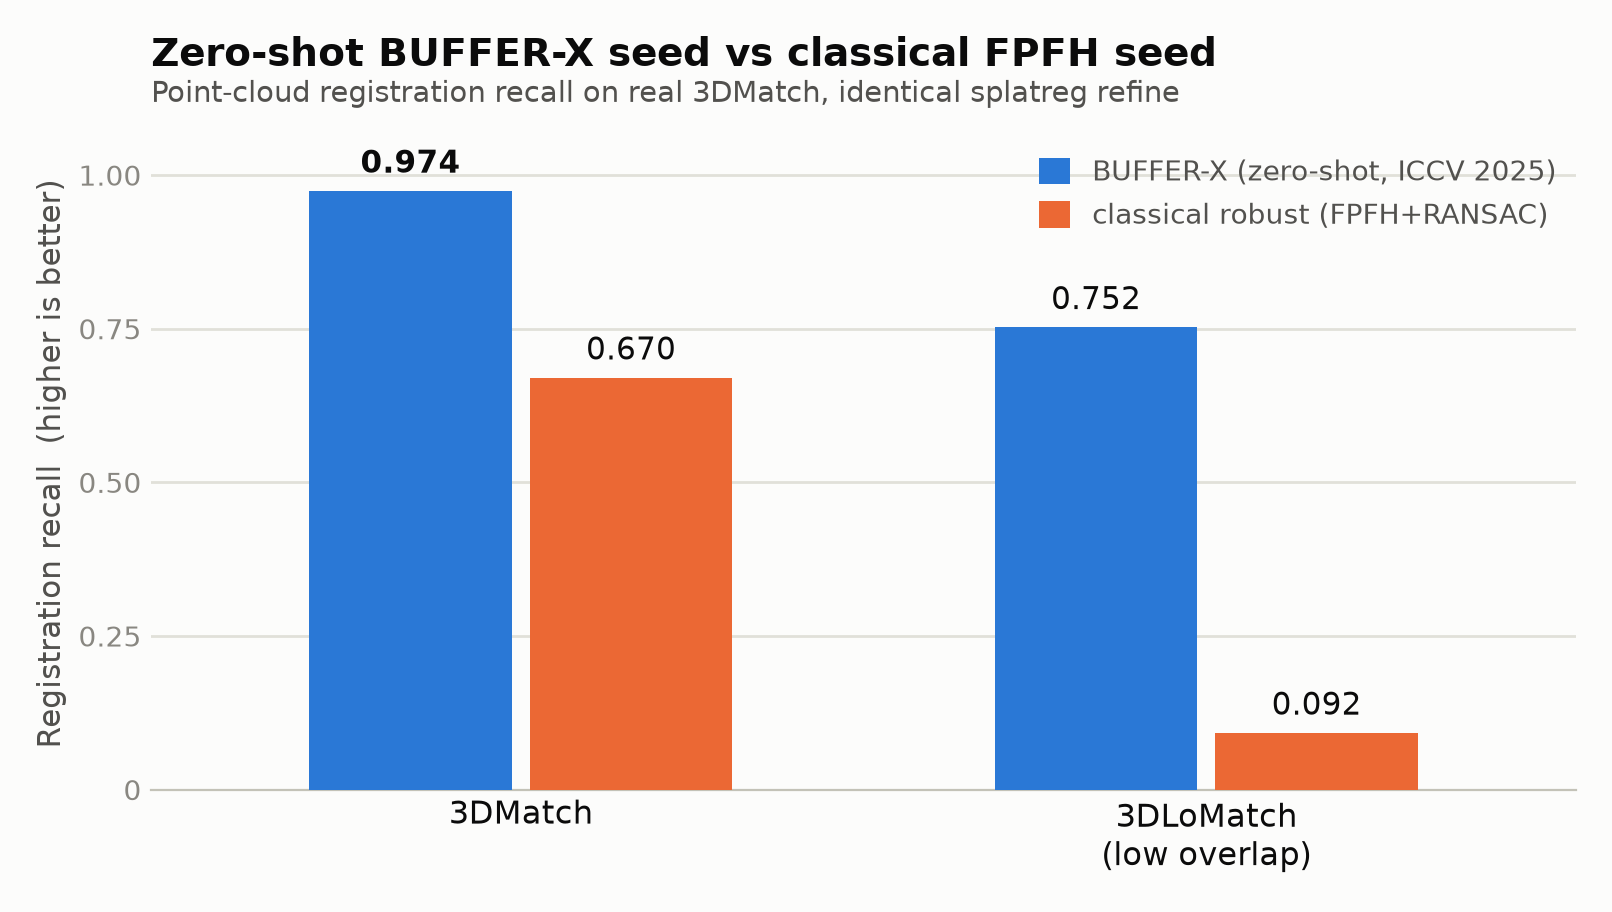
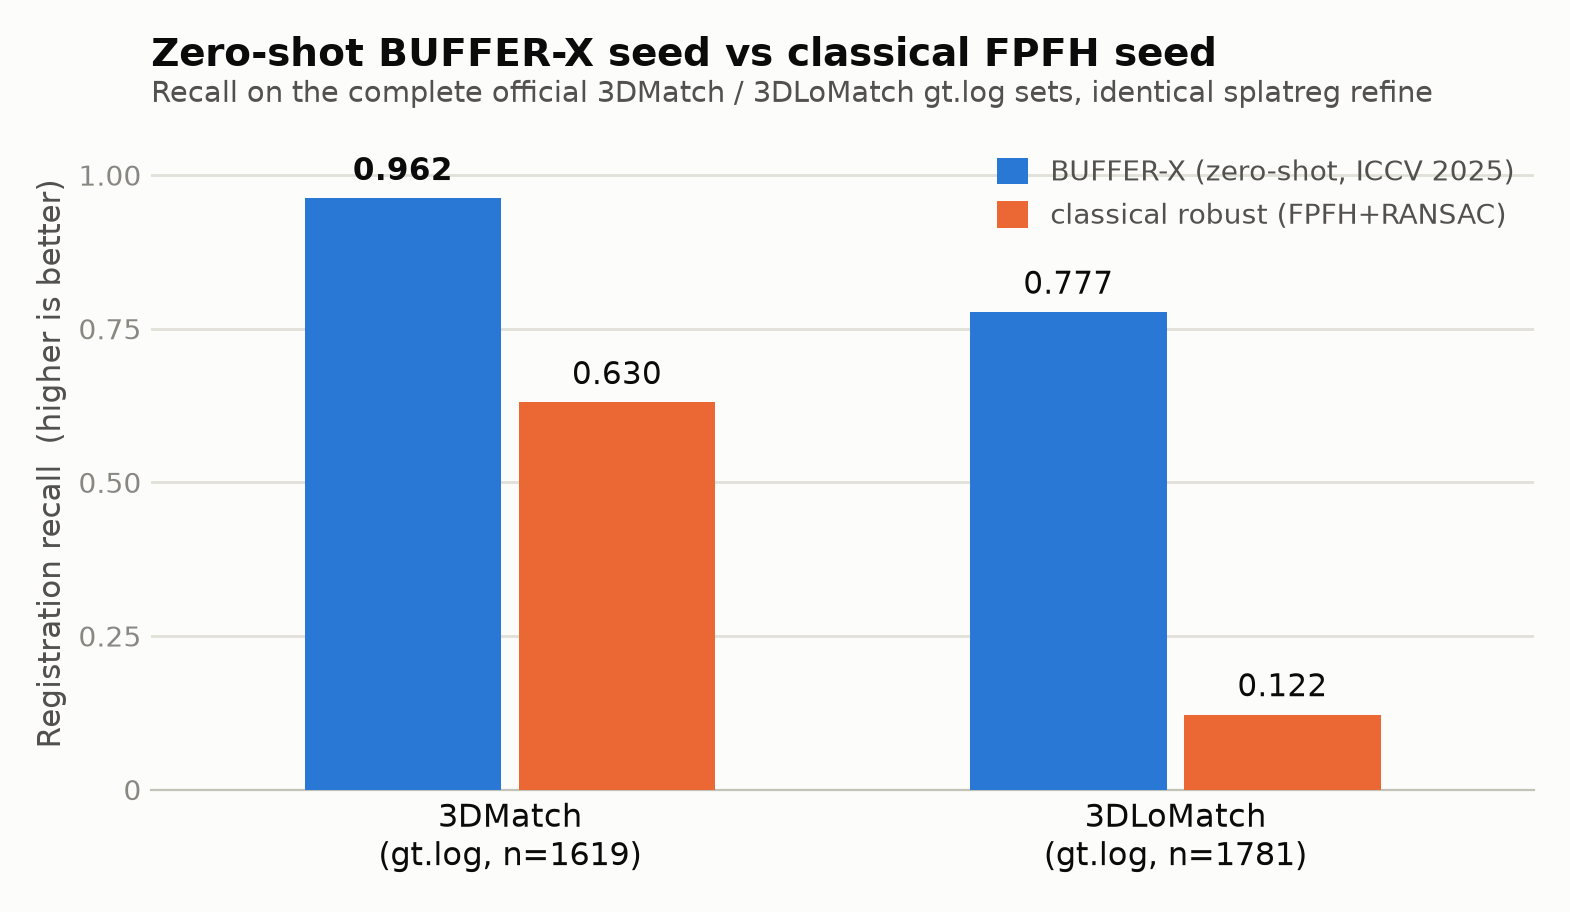
Rewrite README as a coherent product page; regenerate BUFFER-X figure and fix GIF timing
- README/docs restructured: dated bolt-on sections removed; init modes presented
  as product features and all benchmarks flow as one Results block (current
  product, not a changelog). Caveats kept as figure footnotes.
- bufferx_recall.png/.svg: replace stale interim bars with the final official
  gt.log numbers (3DMatch n=1619 0.962/0.630, 3DLoMatch n=1781 0.777/0.122).
- merge_fusion.gif + photometric_refine.gif: fix the imageio duration-units bug
  (per-frame ms cadence + end hold); sync merge counts to the regenerated run
  (38,059 -> 23,564 fused, 14,495 overlap dupes) across README and docs_site.
- docs_site: sync merge counts, de-date the init-modes positioning header.
- Fix the BUFFER-X setup doc link path.

diff --git a/examples/make_bufferx_figure.py b/examples/make_bufferx_figure.py
@@ -4,8 +4,8 @@ A grouped bar chart of registration recall for the zero-shot BUFFER-X seed again
 classical robust (Open3D FPFH+RANSAC) seed, both pushed through the *identical* splatreg
 refine so the comparison isolates the seed. Two regimes:
 
-  * 3DMatch     -- official gt.log pair set (6/8 scenes, n=1250): 0.974 vs 0.670
-  * 3DLoMatch   -- low-overlap regime (0.10-0.30 overlap, 50/scene run, n=400): 0.752 vs 0.092
+  * 3DMatch     -- complete official gt.log pair set (8/8 scenes, n=1619): 0.962 vs 0.630
+  * 3DLoMatch   -- complete official gt.log pair set (n=1781): 0.777 vs 0.122
 
 Writes ``assets/bufferx_recall.png`` (+ ``.svg``). CPU, deterministic, matplotlib only.
 Palette: dataviz categorical slots 1 (blue) and 8 (orange) -- a CVD-safe pair (ΔE ~96).
@@ -20,9 +20,9 @@ import matplotlib.pyplot as plt
 from matplotlib.patches import Patch
 
 # --- data --------------------------------------------------------------------
-GROUPS = ["3DMatch", "3DLoMatch\n(low overlap)"]
-BUFFERX = [0.974, 0.752]
-ROBUST = [0.670, 0.092]
+GROUPS = ["3DMatch\n(gt.log, n=1619)", "3DLoMatch\n(gt.log, n=1781)"]
+BUFFERX = [0.962, 0.777]
+ROBUST = [0.630, 0.122]
 
 # --- palette (dataviz light surface) -----------------------------------------
 SURFACE = "#fcfcfb"
@@ -102,7 +102,7 @@ def main() -> str:
     ax.text(
         0.0,
         1.045,
-        "Point-cloud registration recall on real 3DMatch, identical splatreg refine",
+        "Recall on the complete official 3DMatch / 3DLoMatch gt.log sets, identical splatreg refine",
         transform=ax.transAxes,
         fontsize=10.5,
         color=INK_2,

diff --git a/examples/make_merge_fusion_gif.py b/examples/make_merge_fusion_gif.py
@@ -275,9 +275,18 @@ def _render_gif(stats, A_np, Bm_np, Br_np, m_np, from_A, out_path):
             fnum += 1
 
     frames += [frames[-1]] * 5
-    imageio.mimsave(out_path, frames, format="GIF", duration=0.11, loop=0, subrectangles=True)
+    # imageio >= 2.28 reads `duration` in MILLISECONDS; pass a per-frame list so the
+    # turntable runs at ~110 ms/frame and the final merged frame holds for ~1.3 s.
+    per_frame_ms = [110] * (len(frames) - 1) + [1300]
+    imageio.mimsave(out_path, frames, format="GIF", duration=per_frame_ms, loop=0,
+                    subrectangles=True)
     sz = os.path.getsize(out_path) / 1e6
     print(f"wrote {out_path}  ({sz:.2f} MB, {len(frames)} frames)")
+    print(f"  STAGE-3 counts: {stats['n_cat']:,} concat -> {stats['n_merged']:,} fused "
+          f"({stats['n_dedup_removed']:,} dupes dropped)")
+    print(f"  seam {stats['seam_naive_mm']:.0f}->{stats['seam_reg_mm']:.0f} mm | "
+          f"overlap {stats['overlap_naive']:.2f}->{stats['overlap_reg']:.2f} | "
+          f"RRE {stats['rre_deg']:.2f} deg RTE {stats['rte_mm']:.0f} mm")
 
 
 if __name__ == "__main__":

diff --git a/examples/make_photometric_refine_gif.py b/examples/make_photometric_refine_gif.py
@@ -222,7 +222,9 @@ def _render_gif(target_img, src_imgs, errs):
     # hold start and end
     frames = [frames[0]] * 3 + frames + [frames[-1]] * 6
     out = os.path.join(_REPO_ROOT, "assets", "photometric_refine.gif")
-    imageio.mimsave(out, frames, format="GIF", duration=0.16, loop=0, subrectangles=True)
+    # imageio >= 2.28 reads `duration` in MILLISECONDS: ~160 ms/frame, ~1.3 s end hold.
+    per_frame_ms = [160] * (len(frames) - 1) + [1300]
+    imageio.mimsave(out, frames, format="GIF", duration=per_frame_ms, loop=0, subrectangles=True)
     print(f"wrote {out}  ({os.path.getsize(out) / 1e6:.2f} MB, {len(frames)} frames)")
 
 

diff --git a/README.md b/README.md
@@ -43,9 +43,10 @@ What you get that no other splat registrar ships (each claim traced in
 - **Pose covariance** on every builtin-LM solve (`info["information"]` /
   `info["covariance"]`), so the result plugs straight into a pose graph with an honest
   weight, `None` when singular, never faked.
-- **MAC maximal-clique seed** (`init="mac"`, Zhang et al. CVPR 2023) for contaminated
-  correspondence sets, with the honest measured verdict: a wash on official
-  3DMatch/3DLoMatch, a decisive win in the structured-decoy regime (78° failure vs <0.2°).
+- **Zero-shot and outlier-robust seeds.** A pretrained **BUFFER-X** seed (`init="bufferx"`,
+  ICCV 2025) registers across sensors and scales with no per-dataset training; a **MAC**
+  maximal-clique seed (`init="mac"`, Zhang et al. CVPR 2023) handles contaminated
+  correspondence sets — each reported with its honest measured verdict below.
 - **Sim(3) scale recovery**, which none of the competing splat tools attempt at all.
 
 <div align="center">
@@ -90,7 +91,7 @@ save_ply(fused, "fused.ply")                            # opens in SuperSplat / 
 <sub>*That 3-line merge on **two real overlapping 3DMatch scans** (`7-scenes-redkitchen`,
 ~19k points each): **register** (SE(3), recovered to **0.58° / 17 mm** against the 3DMatch ground
 truth — the seam gap closes 101 → 18 mm, overlap 0.27 → 0.82), then **fuse + voxel-dedupe** the
-double-covered seam (**38,059 → 23,502** Gaussians, 14,557 overlap duplicates dropped). Every number
+double-covered seam (**38,059 → 23,564** Gaussians, 14,495 overlap duplicates dropped). Every number
 is measured on this run; regenerate: [`examples/make_merge_fusion_gif.py`](examples/make_merge_fusion_gif.py).*</sub>
 
 Align without merging (both scans stay separate files, registered into one frame):
@@ -144,107 +145,10 @@ not registration).
 | SH (`f_rest`) rotated with the splat | **yes, test-locked** | no | no | not in any splat registrar we know of |
 | Merge + overlap dedupe | yes | no | no dedupe | concat only |
 | Photometric refine (exposure comp + ladder) | yes | no | no | no |
+| Zero-shot learned seed (BUFFER-X) | yes | no | no | no |
 | Pose covariance for pose graphs | yes | no | no | n/a |
 | Honest ambiguity flag (never silent-wrong) | yes | no | no | n/a |
 | Pure PyTorch library + CLI | yes | script | GUI | editor / CLI |
-
-## Results
-
-Every number is measured and reproducible; the provenance column points at the full record.
-
-| Benchmark | splatreg | reference | provenance |
-|---|---|---|---|
-| Real-splat merge (103k Gaussians) | Chamfer **10.3 → 2.0 mm (5.1×)**, overlap 0.03 → 0.67 (22×) | naive concat | [`RESULTS.md` §5d](RESULTS.md), `examples/merge_demo.py` |
-| Photometric refine (real rasterizer) | 5°/7 mm → **0.36°/0.5 mm** (~1.1 s) | geometric stage alone worsens the symmetric case 6.0°→11.2° | [`benchmarks/photometric_refine_results.md`](benchmarks/photometric_refine_results.md) |
-| Official 3DMatch recall (1279 pairs, Choi/Zeng protocol) | **91.5%** mean, 93.5% pooled | GeoTransformer ~92%, Open3D ~77% | [`RESULTS.md` §5b](RESULTS.md) |
-| Official 3DLoMatch (hard, 10-30% overlap) | 72.5% mean, **74.4%** pooled | GeoTransformer ~74%, Open3D ~20% | [`RESULTS.md` §5b](RESULTS.md) |
-| vs splat competitors (real splat, known GT Sim3) | **5.2°** (SE3), recovers scale (Sim3) | splatalign 15.3°, GS-Registration 36.3° | [`RESULTS.md` §5c](RESULTS.md) |
-| Object pose (canonical YCB CAD, 14 models × 4 poses) | ADD-S AUC **0.995**, 100% < 2 cm | n/a | [`RESULTS.md` §5f-ycb](RESULTS.md) |
-| Camera localization (real splat, known perturbation) | median 5°/10 mm → **0.11°/1.35 mm** | n/a | [`RESULTS.md` §5g](RESULTS.md) |
-| Known-transform recovery | **36/36 = 100%** (GPU full grid); 6/6 CPU smoke in 41 s | n/a | [`RESULTS.md` §1, §5j](RESULTS.md) |
-| Registration speed | **~17 ms** (fast init), 104 ms (learned) | GeoTransformer ~50 ms, Open3D 142 ms | [`RESULTS.md` §5e](RESULTS.md) |
-| SH rotation correctness | rotated-coeff evaluation error **~2.4e-15** (float64) | n/a | [`tests/test_sh_rotation.py`](tests/test_sh_rotation.py), [`RESULTS.md` §5j](RESULTS.md) |
-| Exposure compensation | tinted-pair scale error 3.99% → **0.47%** (clean: 0.01%, harmless) | no-compensation baseline | [`RESULTS.md` §5j](RESULTS.md) |
-| Pose covariance | SPD when well-constrained, scales with noise, `None` when singular | n/a | [`tests/test_pose_covariance.py`](tests/test_pose_covariance.py) |
-
-### Init modes: trade speed for robustness
-
-| `init=` | what | when |
-|---|---|---|
-| `"fast"` *(default)* | FPFH + GPU-batched RANSAC seed → closed-form LM | objects / full-overlap, **~17 ms** |
-| `"robust"` | Open3D FPFH+RANSAC seed → splatreg refine + scale | real metre-scale scans |
-| `"learned"` | pretrained GeoTransformer seed → splatreg refine + scale | best accuracy on real scans |
-| `"bufferx"` | pretrained **BUFFER-X** zero-shot seed (ICCV 2025) → splatreg refine + scale | cross-sensor / cross-scale scans with **no per-dataset training** |
-| `"mac"` | MAC maximal-clique consensus (Zhang et al. CVPR 2023) → weighted SVD → refine | outlier-heavy / multi-consensus correspondence sets |
-| `"global"` | blind super-Fibonacci SO(3) sweep | robust fallback, any rotation |
-
-Two options refine the *seed* rather than the pose: `init="learned"` accepts `seed_gate=True`
-(off by default), a Decision-PCR-style confidence check (arXiv 2507.14965) that scores the learned
-seed (mutual-NN inlier ratio + SC² spatial consistency) and reseeds a low-confidence hypothesis from
-the classical `"robust"` path *before* LM refinement, instead of blindly refining a bad seed. And
-`init="bufferx"` swaps GeoTransformer for **BUFFER-X** ("Towards Zero-Shot Point Cloud Registration
-in Diverse Scenes", ICCV 2025) — a single generalist model that registers across sensors and scales
-with no per-dataset training. Both learned backends are optional and lazily loaded; when their
-weights / CUDA extensions are absent they fall back to `"robust"` with a logged note (BUFFER-X setup:
-[`splatreg/third_party_models/README-BUFFERX.md`](splatreg/third_party_models/README-BUFFERX.md)).
-
-**2026 positioning.** Per-dataset-trained backbones like **PSReg** and **DiffusionPCR** now top the
-3DMatch leaderboard (95%+ registration recall), above the ~91.5% GeoTransformer seed splatreg wraps.
-splatreg deliberately keeps a *zero-shot* learned option (BUFFER-X) rather than chasing that number:
-a splat registrar should not require training a per-scene/per-sensor model to align two captures, so
-the value is a generalist seed + splatreg's provable SH rotation, honest pose covariance, Sim(3)
-scale, and overlap-aware refine on top — not the last recall point on one benchmark. Drop in a
-higher-recall correspondence model as the seed the day it ships a permissive, zero-shot checkpoint.
-
-**The BUFFER-X seed, built and validated.** The zero-shot seed is built and run on **real
-3DMatch**, with both seeds pushed through the *identical* splatreg refine so the comparison
-isolates the seed rather than the pipeline. On the **complete official `gt.log` pair sets**
-(a pair counts as recalled at RRE < 15° and RTE < 0.3 m): **3DMatch (8/8 scenes, n=1619)** the
-BUFFER-X seed reaches **0.962 recall** (median RRE 1.46°) against **0.630** (2.12°) for the
-classical robust FPFH seed; **official 3DLoMatch (n=1781)** it holds **0.777** (2.77°) against
-**0.122** (103.4°) — **6.4× the recall** where the classical seed's median error is effectively
-random. BUFFER-X wins every scene on both splits.
-
-<div align="center">
-<img src="https://raw.githubusercontent.com/Archerkattri/splatreg/main/assets/bufferx_recall.png" alt="BUFFER-X zero-shot seed vs classical FPFH seed: registration recall on 3DMatch and the low-overlap 3DLoMatch regime" width="82%">
-</div>
-
-<sub>*Final numbers are the complete official `gt.log` pair sets — 3DMatch 8/8 scenes (n=1619):
-0.962 vs 0.630; official 3DLoMatch (n=1781): 0.777 vs 0.122. Both seeds share the identical
-lighter `feature_align` refine, so these isolate the seed rather than report full-pipeline
-absolute numbers.*</sub>
-
-**Registration, happening.** One real low-overlap pair, watched end to end: the source fragment
-starts unaligned, the classical FPFH+RANSAC seed slews it into the *wrong* basin (151.5° off), then
-the BUFFER-X seed + splatreg refine rotates it onto the target and locks on at 2.0°.
-
-<div align="center">
-<img src="https://raw.githubusercontent.com/Archerkattri/splatreg/main/assets/registration_lowoverlap.gif" alt="Three-phase animation of a real low-overlap 3DMatch pair: unaligned, wrong classical FPFH+RANSAC basin (RRE 151.5°), then BUFFER-X seed + splatreg refine locking onto the target (RRE 2.0°)" width="62%">
-</div>
-
-<sub>*Real 3DMatch pair `7-scenes-redkitchen` 35→46, GT overlap **0.10**. Both transforms are the
-actual `robust_feature_align` (classical, RRE **151.5°** ✗) and `bufferx_feature_align` (BUFFER-X,
-RRE **2.0°** ✓) library outputs — the animation interpolates between the real estimates, nothing is
-hand-posed. At 10 % overlap the source only shares a corner with the target, so a correct lock
-overlaps just that corner. Regenerate: [`examples/make_lowoverlap_gif.py`](examples/make_lowoverlap_gif.py).*</sub>
-
-Weights come from Hugging Face `Hyungtae-Lim/BUFFER-X`; a native build on a modern stack
-(CUDA 12.8 / sm_120 / torch 2.11 / numpy 2.x) is nontrivial, with the full sudo-free recipe in
-[`docs/BUFFERX_BUILD_MODERN_CUDA.md`](docs/BUFFERX_BUILD_MODERN_CUDA.md). Note the checkpoints are
-full-model state_dicts: loading them into the `.Desc`/`.Pose` submodules silently loads nothing
-(random weights → garbage seeds), fixed in `c54d8c9`.
-
-**The MAC verdict, stated honestly.** `init="mac"` reimplements the MAC hypothesis generator
-(SC²-weighted rigidity graph → maximal cliques → weighted SVD per clique, with explicit
-caps) in pure torch + networkx (`pip install "splatreg[mac]"`). On synthetic contaminated
-sets ([`tests/test_mac.py`](tests/test_mac.py)) it matches the RANSAC engine at 30/60/90%
-random outliers and decisively wins the structured-decoy regime (RANSAC fails at ~78°, MAC
-stays <0.2°). Measured on the **full official splits** (same forward/voxel/refine, only the
-hypothesis stage differs) it is **a wash, not a lift**: 3DLoMatch 72.1/74.6 vs LGR's
-72.5/74.4, 3DMatch 91.7/93.8 vs 91.5/93.5, every delta within ±4 pairs, at ~+50% runtime.
-GeoTransformer's native-voxel correspondences are already consensus-dominated, so the
-default stays `seed_selector="lgr"`; `"mac"` is the tool for genuinely contaminated
-correspondence sets ([`RESULTS.md` §5k](RESULTS.md)).
 
 ## How it works
 
@@ -259,8 +163,8 @@ punts to a manual gizmo).
 </div>
 
 1. **Global init**: a coarse pose from a dense super-Fibonacci rotation sweep + batched
-   trimmed ICP (no local-minimum trap), with FPFH+RANSAC, learned (GeoTransformer), and MAC
-   maximal-clique seeds for harder real scans.
+   trimmed ICP (no local-minimum trap), with FPFH+RANSAC, learned (GeoTransformer), zero-shot
+   BUFFER-X, and MAC maximal-clique seeds for harder real scans.
 2. **Refinement**: a from-scratch Levenberg-Marquardt core over ICP (point-to-point /
    point-to-plane) *and* splatreg's flagship **Gaussian-SDF** residual, solving the full
    SE(3) or Sim(3) tangent, with the pose information/covariance exposed at the optimum.
@@ -285,6 +189,125 @@ from splatreg.geometry.gaussian_sdf import gaussian_sdf, gaussian_sdf_grad
 sdf, normal = gaussian_sdf(target, query_points, sigma=0.02)       # signed distance + normal
 sdf, grad   = gaussian_sdf_grad(target, query_points, sigma=0.02)  # + exact ∇_p d
 ```
+
+## Init modes: trade speed for robustness
+
+Every mode is a different way to seed the same LM core, so you pick one per capture and the
+refine, scale recovery, SH rotation, and covariance are identical downstream.
+
+| `init=` | what | when |
+|---|---|---|
+| `"fast"` *(default)* | FPFH + GPU-batched RANSAC seed → closed-form LM | objects / full-overlap, **~17 ms** |
+| `"robust"` | Open3D FPFH+RANSAC seed → splatreg refine + scale | real metre-scale scans |
+| `"learned"` | pretrained GeoTransformer seed → splatreg refine + scale | best accuracy on real scans |
+| `"bufferx"` | pretrained **BUFFER-X** zero-shot seed (ICCV 2025) → splatreg refine + scale | cross-sensor / cross-scale scans with **no per-dataset training** |
+| `"mac"` | MAC maximal-clique consensus (Zhang et al. CVPR 2023) → weighted SVD → refine | outlier-heavy / multi-consensus correspondence sets |
+| `"global"` | blind super-Fibonacci SO(3) sweep | robust fallback, any rotation |
+
+Two options refine the *seed* rather than the pose. `init="learned"` accepts `seed_gate=True`
+(off by default), a Decision-PCR-style confidence check (arXiv 2507.14965) that scores the learned
+seed (mutual-NN inlier ratio + SC² spatial consistency) and reseeds a low-confidence hypothesis from
+the classical `"robust"` path *before* LM refinement, instead of blindly refining a bad seed. And
+`init="bufferx"` swaps GeoTransformer for **BUFFER-X** ("Towards Zero-Shot Point Cloud Registration
+in Diverse Scenes", ICCV 2025) — a single generalist model that registers across sensors and scales
+with no per-dataset training. Both learned backends are optional and lazily loaded; when their
+weights / CUDA extensions are absent they fall back to `"robust"` with a logged note. BUFFER-X
+weights come from Hugging Face `Hyungtae-Lim/BUFFER-X`; a native build on a modern stack
+(CUDA 12.8 / sm_120 / torch 2.11 / numpy 2.x) is nontrivial, with the full sudo-free recipe in
+[`docs/BUFFERX_BUILD_MODERN_CUDA.md`](docs/BUFFERX_BUILD_MODERN_CUDA.md) and setup notes in
+[`third_party_models/README-BUFFERX.md`](third_party_models/README-BUFFERX.md).
+
+Per-dataset-trained backbones like **PSReg** and **DiffusionPCR** now top the 3DMatch leaderboard
+(95%+ registration recall), above the ~91.5% GeoTransformer seed splatreg wraps. splatreg
+deliberately keeps a *zero-shot* learned option (BUFFER-X) rather than chasing that number: a splat
+registrar should not require training a per-scene/per-sensor model to align two captures, so the
+value is a generalist seed plus splatreg's provable SH rotation, honest pose covariance, Sim(3)
+scale, and overlap-aware refine on top — not the last recall point on one benchmark. Drop in a
+higher-recall correspondence model as the seed the day it ships a permissive, zero-shot checkpoint.
+
+## Results
+
+Every number is measured and reproducible; the provenance column points at the full record.
+
+| Benchmark | splatreg | reference | provenance |
+|---|---|---|---|
+| Real-splat merge (103k Gaussians) | Chamfer **10.3 → 2.0 mm (5.1×)**, overlap 0.03 → 0.67 (22×) | naive concat | [`RESULTS.md` §5d](RESULTS.md), `examples/merge_demo.py` |
+| Photometric refine (real rasterizer) | 5°/7 mm → **0.36°/0.5 mm** (~1.1 s) | geometric stage alone worsens the symmetric case 6.0°→11.2° | [`benchmarks/photometric_refine_results.md`](benchmarks/photometric_refine_results.md) |
+| Official 3DMatch recall (1279 pairs, Choi/Zeng protocol) | **91.5%** mean, 93.5% pooled | GeoTransformer ~92%, Open3D ~77% | [`RESULTS.md` §5b](RESULTS.md) |
+| Official 3DLoMatch (hard, 10-30% overlap) | 72.5% mean, **74.4%** pooled | GeoTransformer ~74%, Open3D ~20% | [`RESULTS.md` §5b](RESULTS.md) |
+| vs splat competitors (real splat, known GT Sim3) | **5.2°** (SE3), recovers scale (Sim3) | splatalign 15.3°, GS-Registration 36.3° | [`RESULTS.md` §5c](RESULTS.md) |
+| Object pose (canonical YCB CAD, 14 models × 4 poses) | ADD-S AUC **0.995**, 100% < 2 cm | n/a | [`RESULTS.md` §5f-ycb](RESULTS.md) |
+| Camera localization (real splat, known perturbation) | median 5°/10 mm → **0.11°/1.35 mm** | n/a | [`RESULTS.md` §5g](RESULTS.md) |
+| Known-transform recovery | **36/36 = 100%** (GPU full grid); 6/6 CPU smoke in 41 s | n/a | [`RESULTS.md` §1, §5j](RESULTS.md) |
+| Registration speed | **~17 ms** (fast init), 104 ms (learned) | GeoTransformer ~50 ms, Open3D 142 ms | [`RESULTS.md` §5e](RESULTS.md) |
+| SH rotation correctness | rotated-coeff evaluation error **~2.4e-15** (float64) | n/a | [`tests/test_sh_rotation.py`](tests/test_sh_rotation.py), [`RESULTS.md` §5j](RESULTS.md) |
+| Exposure compensation | tinted-pair scale error 3.99% → **0.47%** (clean: 0.01%, harmless) | no-compensation baseline | [`RESULTS.md` §5j](RESULTS.md) |
+| Pose covariance | SPD when well-constrained, scales with noise, `None` when singular | n/a | [`tests/test_pose_covariance.py`](tests/test_pose_covariance.py) |
+
+### Zero-shot registration on real 3DMatch
+
+The `init="bufferx"` seed is run on **real 3DMatch**, with both seeds pushed through the
+*identical* splatreg refine so the comparison isolates the seed rather than the pipeline. On
+the **complete official `gt.log` pair sets** (a pair counts as recalled at RRE < 15° and
+RTE < 0.3 m): on **3DMatch (8/8 scenes, n=1619)** the BUFFER-X seed reaches **0.962 recall**
+(median RRE 1.46°) against **0.630** (2.12°) for the classical robust FPFH seed; on
+**official 3DLoMatch (n=1781)** it holds **0.777** (2.77°) against **0.122** (103.4°) —
+**6.4× the recall** where the classical seed's median error is effectively random. BUFFER-X
+wins every scene on both splits.
+
+<div align="center">
+<img src="https://raw.githubusercontent.com/Archerkattri/splatreg/main/assets/bufferx_recall.png" alt="BUFFER-X zero-shot seed vs classical FPFH seed: registration recall on 3DMatch and the low-overlap 3DLoMatch regime" width="82%">
+</div>
+
+<sub>*Registration recall on the complete official `gt.log` pair sets — 3DMatch 8/8 scenes (n=1619):
+0.962 vs 0.630; official 3DLoMatch (n=1781): 0.777 vs 0.122. Both seeds share the identical lighter
+`feature_align` refine, so these bars isolate the seed rather than report full-pipeline absolute
+numbers. Regenerate: [`examples/make_bufferx_figure.py`](examples/make_bufferx_figure.py).*</sub>
+
+One real low-overlap pair, watched end to end: the source fragment starts unaligned, the classical
+FPFH+RANSAC seed slews it into the *wrong* basin (151.5° off), then the BUFFER-X seed + splatreg
+refine rotates it onto the target and locks on at 2.0°.
+
+<div align="center">
+<img src="https://raw.githubusercontent.com/Archerkattri/splatreg/main/assets/registration_lowoverlap.gif" alt="Three-phase animation of a real low-overlap 3DMatch pair: unaligned, wrong classical FPFH+RANSAC basin (RRE 151.5°), then BUFFER-X seed + splatreg refine locking onto the target (RRE 2.0°)" width="62%">
+</div>
+
+<sub>*Real 3DMatch pair `7-scenes-redkitchen` 35→46, GT overlap **0.10**. Both transforms are the
+actual `robust_feature_align` (classical, RRE **151.5°** ✗) and `bufferx_feature_align` (BUFFER-X,
+RRE **2.0°** ✓) library outputs — the animation interpolates between the real estimates, nothing is
+hand-posed. At 10 % overlap the source only shares a corner with the target, so a correct lock
+overlaps just that corner. Regenerate: [`examples/make_lowoverlap_gif.py`](examples/make_lowoverlap_gif.py).*</sub>
+
+### Photometric refinement, for the pose geometry can't see
+
+When geometry alone is ambiguous — a rotation-symmetric object, a texture-only degree of freedom —
+the opt-in photometric stage (`refine="photometric"`) renders source vs target through **gsplat**
+and closes the pose the geometric solve cannot, with per-pair exposure compensation and a
+coarse-to-fine render ladder. No real images needed.
+
+<div align="center">
+<img src="https://raw.githubusercontent.com/Archerkattri/splatreg/main/assets/photometric_refine.gif" alt="Photometric refinement converging: a colour splat knocked 9 degrees out of alignment locks onto the target through the gsplat rasterizer, with rotation and translation error ticking down to zero" width="62%">
+</div>
+
+<sub>*A colour splat knocked **9° / 151 mm** out of alignment, polished by the PhotoReg-style
+splat-vs-splat photometric LM (renders through **gsplat**, no real images) down to
+**0.04° / 0.04 mm** — a real per-iteration trajectory. On the benchmark rasterizer the stage takes
+5°/7 mm → 0.36°/0.5 mm in ~1.1 s and is neutral on dense-overlap pairs, hence opt-in. Regenerate:
+[`examples/make_photometric_refine_gif.py`](examples/make_photometric_refine_gif.py).*</sub>
+
+### The MAC verdict, stated honestly
+
+`init="mac"` reimplements the MAC hypothesis generator (SC²-weighted rigidity graph → maximal
+cliques → weighted SVD per clique, with explicit caps) in pure torch + networkx
+(`pip install "splatreg[mac]"`). On synthetic contaminated sets
+([`tests/test_mac.py`](tests/test_mac.py)) it matches the RANSAC engine at 30/60/90% random
+outliers and decisively wins the structured-decoy regime (RANSAC fails at ~78°, MAC stays <0.2°).
+Measured on the **full official splits** (same forward/voxel/refine, only the hypothesis stage
+differs) it is **a wash, not a lift**: 3DLoMatch 72.1/74.6 vs LGR's 72.5/74.4, 3DMatch 91.7/93.8
+vs 91.5/93.5, every delta within ±4 pairs, at ~+50% runtime. GeoTransformer's native-voxel
+correspondences are already consensus-dominated, so the default stays `seed_selector="lgr"`;
+`"mac"` is the tool for genuinely contaminated correspondence sets
+([`RESULTS.md` §5k](RESULTS.md)).
 
 ## Validation
 

diff --git a/docs_site/benchmarks.md b/docs_site/benchmarks.md
@@ -22,7 +22,7 @@ the v1.3 MAC verdict validated 2026-06-10.
 
 <figure class="sr-figure">
   <img src="https://raw.githubusercontent.com/Archerkattri/splatreg/main/assets/merge_fusion.gif" alt="Three-stage animation of merging two real overlapping 3DMatch scans: misaligned, registered by SE(3), then fused with the overlap deduped">
-  <figcaption>The <code>merge</code> pipeline on <strong>two real overlapping 3DMatch scans</strong> (<code>7-scenes-redkitchen</code>): register (SE(3), <strong>0.58° / 17 mm</strong> vs the 3DMatch ground truth; seam gap 101 → 18 mm, overlap 0.27 → 0.82), then fuse + voxel-dedupe the double-covered seam (<strong>38,059 → 23,502</strong> Gaussians). Measured this run. Regenerate: <code>examples/make_merge_fusion_gif.py</code>.</figcaption>
+  <figcaption>The <code>merge</code> pipeline on <strong>two real overlapping 3DMatch scans</strong> (<code>7-scenes-redkitchen</code>): register (SE(3), <strong>0.58° / 17 mm</strong> vs the 3DMatch ground truth; seam gap 101 → 18 mm, overlap 0.27 → 0.82), then fuse + voxel-dedupe the double-covered seam (<strong>38,059 → 23,564</strong> Gaussians). Measured this run. Regenerate: <code>examples/make_merge_fusion_gif.py</code>.</figcaption>
 </figure>
 
 ## Synthetic recovery (known-transform)

diff --git a/docs_site/index.md b/docs_site/index.md
@@ -92,7 +92,7 @@ save_ply(apply_transform(b, result.T, result.scale), "b_aligned.ply")
 
 <figure class="sr-figure">
   <img src="https://raw.githubusercontent.com/Archerkattri/splatreg/main/assets/merge_fusion.gif" alt="Three-stage animation of merging two real overlapping 3DMatch scans: misaligned, registered by SE(3), then fused with the overlap deduped">
-  <figcaption>The 3-line <code>merge</code> on <strong>two real overlapping 3DMatch scans</strong> (<code>7-scenes-redkitchen</code>, ~19k points each): <strong>register</strong> (SE(3), recovered to <strong>0.58° / 17 mm</strong> against the 3DMatch ground truth; the seam gap closes 101 → 18 mm, overlap 0.27 → 0.82), then <strong>fuse + voxel-dedupe</strong> the double-covered seam (<strong>38,059 → 23,502</strong> Gaussians). Every number is measured on this run. Regenerate: <code>examples/make_merge_fusion_gif.py</code>.</figcaption>
+  <figcaption>The 3-line <code>merge</code> on <strong>two real overlapping 3DMatch scans</strong> (<code>7-scenes-redkitchen</code>, ~19k points each): <strong>register</strong> (SE(3), recovered to <strong>0.58° / 17 mm</strong> against the 3DMatch ground truth; the seam gap closes 101 → 18 mm, overlap 0.27 → 0.82), then <strong>fuse + voxel-dedupe</strong> the double-covered seam (<strong>38,059 → 23,564</strong> Gaussians). Every number is measured on this run. Regenerate: <code>examples/make_merge_fusion_gif.py</code>.</figcaption>
 </figure>
 
 ## Capability matrix

diff --git a/docs_site/init-modes.md b/docs_site/init-modes.md
@@ -125,7 +125,7 @@ seed + splatreg refine rotates it onto the target and locks on.
   <figcaption>Real 3DMatch pair <code>7-scenes-redkitchen</code> 35→46, GT overlap <strong>0.10</strong>. Both transforms are the actual <code>robust_feature_align</code> (classical, RRE <strong>151.5°</strong> ✗) and <code>bufferx_feature_align</code> (BUFFER-X, RRE <strong>2.0°</strong> ✓) library outputs — the animation interpolates between the real estimates, nothing is hand-posed. At 10% overlap the source only shares a corner with the target, so a correct lock overlaps just that corner. Regenerate with <code>examples/make_lowoverlap_gif.py</code>.</figcaption>
 </figure>
 
-### 2026 positioning
+### Positioning: a zero-shot seed by choice
 
 Per-dataset-trained backbones now lead 3DMatch: **PSReg** and **DiffusionPCR** report **95 %+**
 registration recall, above the ~91.5 % GeoTransformer seed splatreg wraps. splatreg does *not* chase